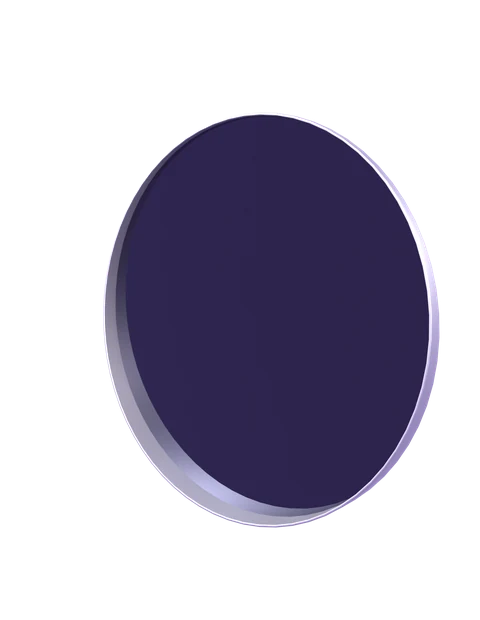
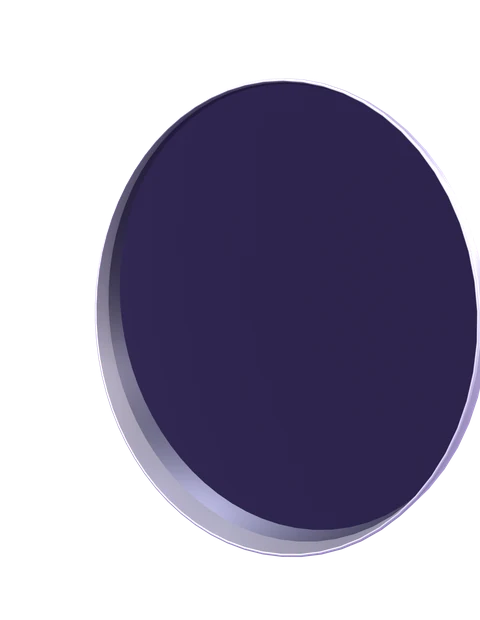
Mirror v24: bigger (scale 1.4, FOV 60°)

Changed region(s): [[0.1875, 0.1226, 1.0, 0.9194]]

diff --git a/scripts/render_mount_object_icons.py b/scripts/render_mount_object_icons.py
@@ -125,8 +125,8 @@ ICONS = {
         # brushed-metal surface detail).
         "glb":     "sketchfab_mirror_stockholm.glb",
         "rot_xyz": (math.radians(-6), 0, -math.pi/2 - math.radians(35)),
-        "scale":   1.00,
-        "camera_fov_deg": 50,
+        "scale":   1.40,
+        "camera_fov_deg": 60,
         "force_silver_frame": True,
         "frame_is_largest": True,
         "glass_target": "smallest",    # mirror disc material → glass+clearcoat
